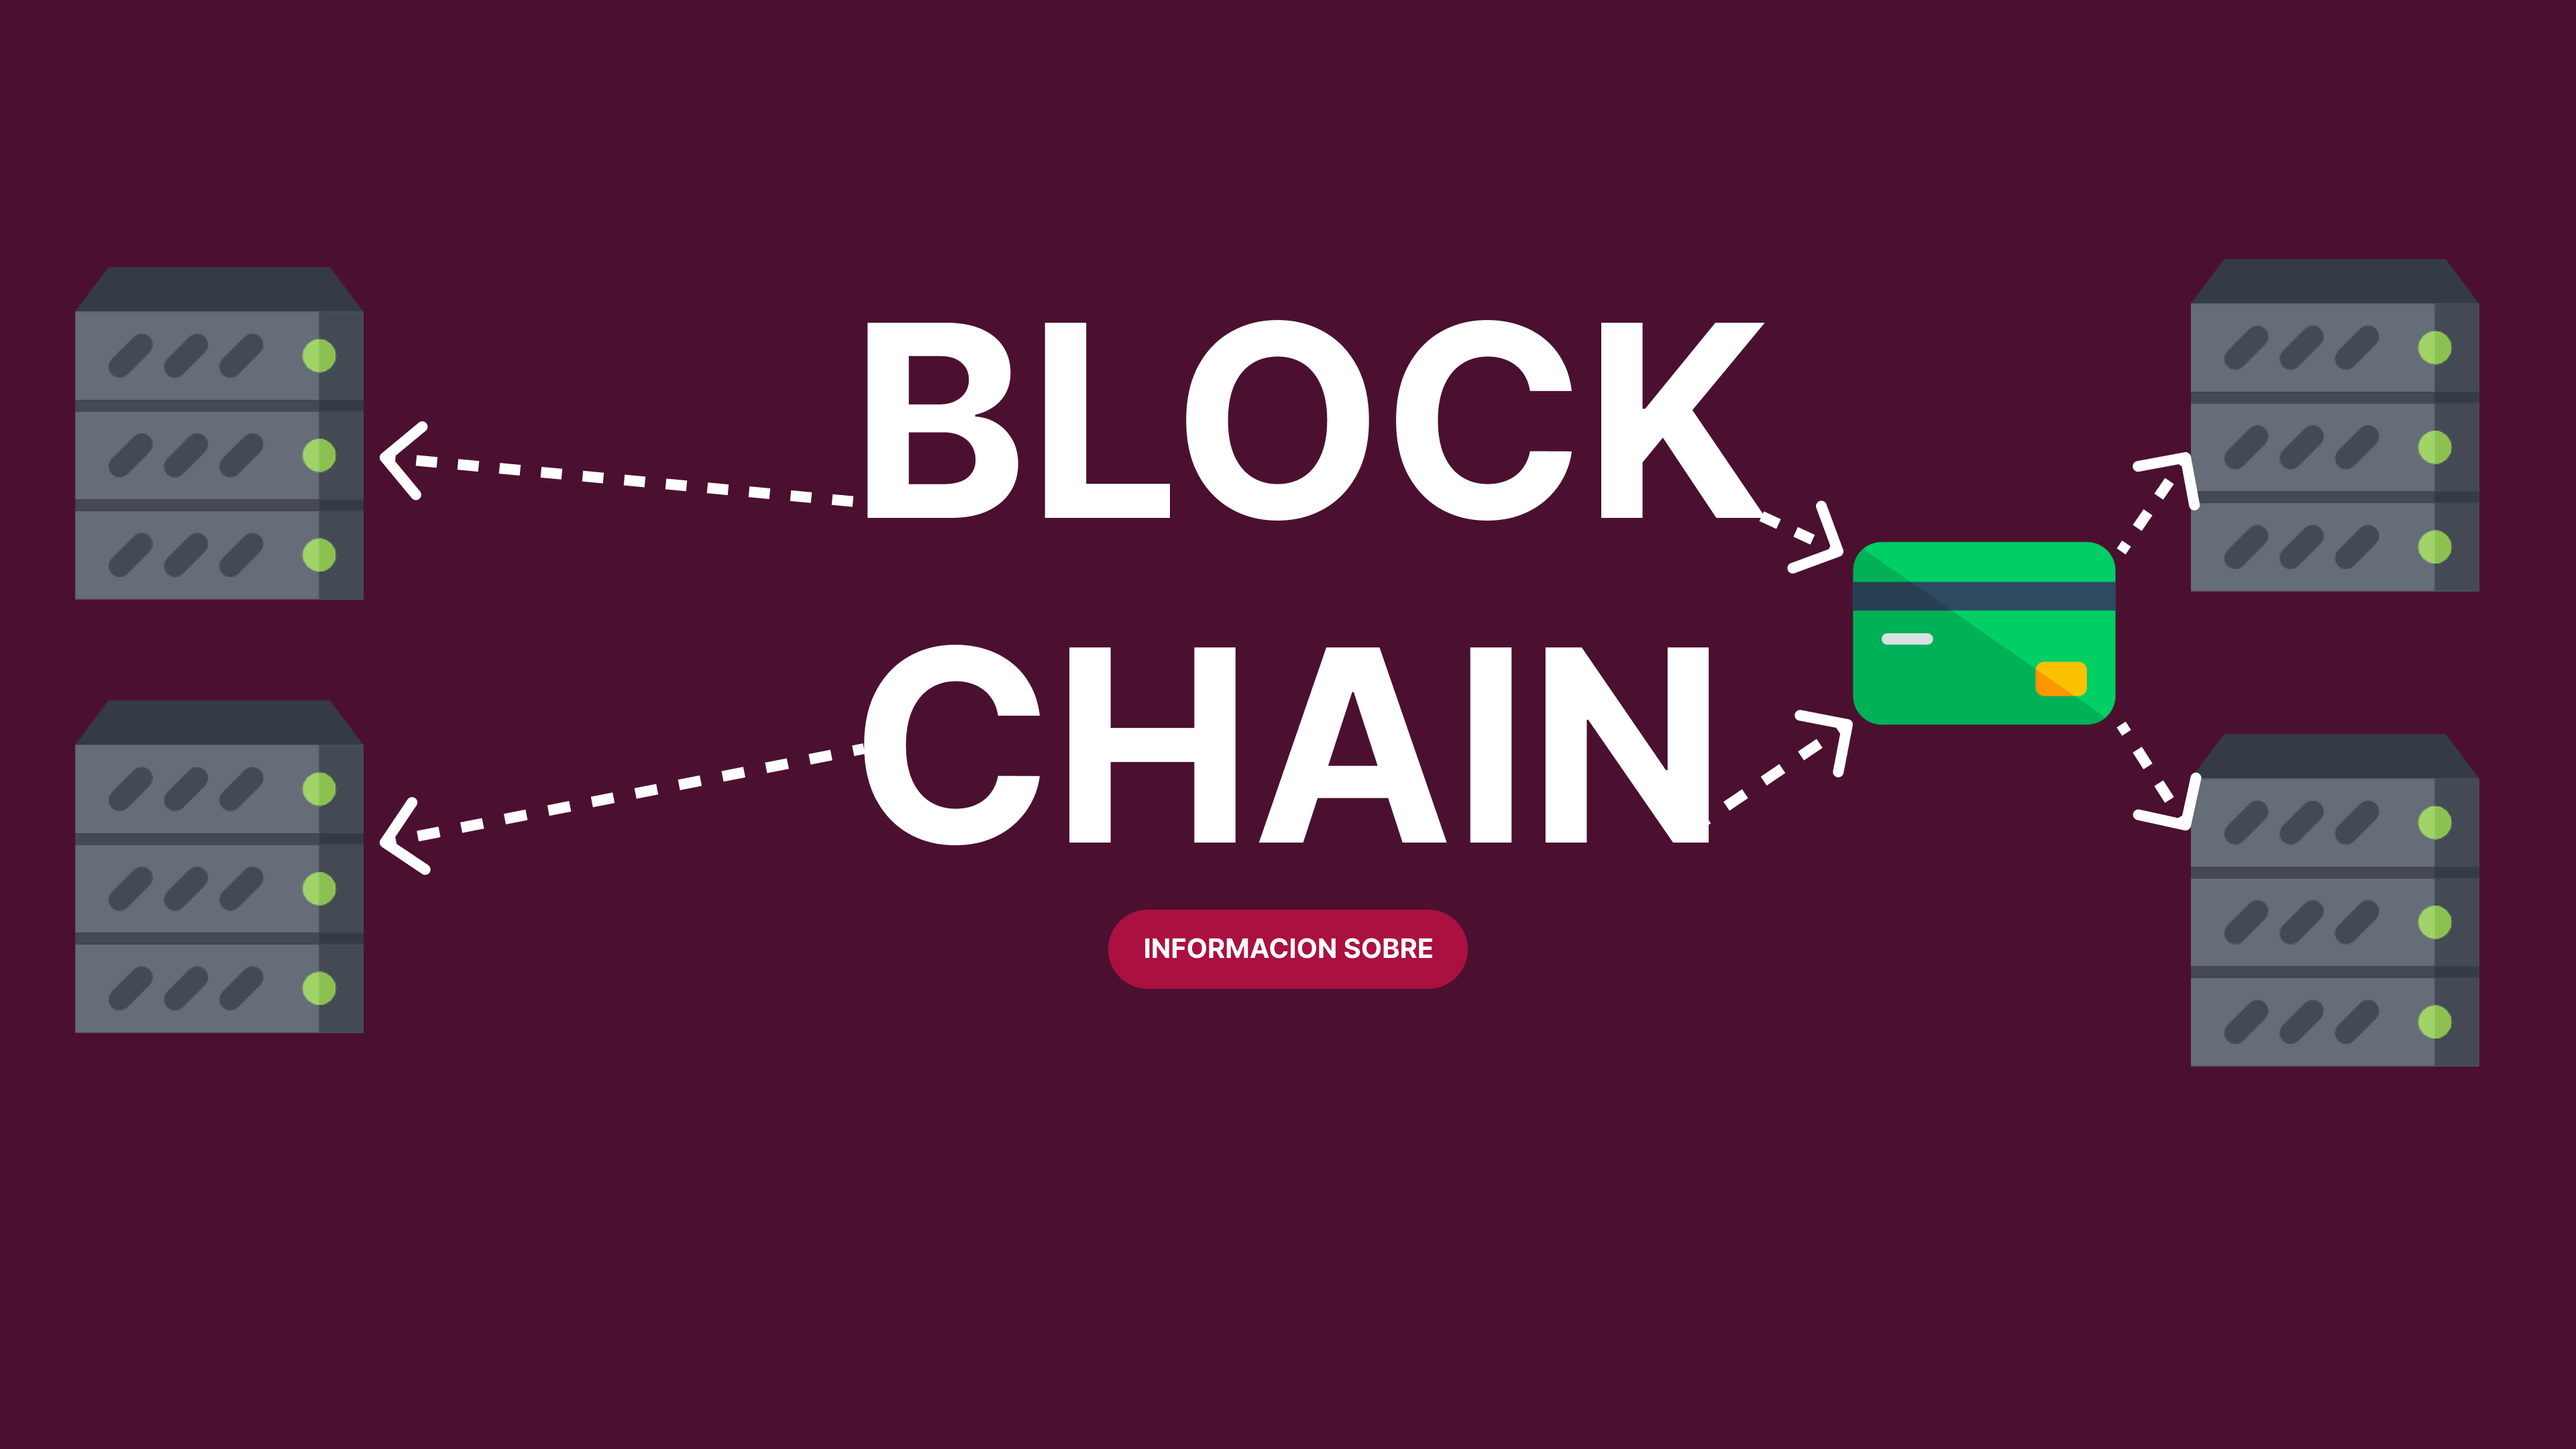
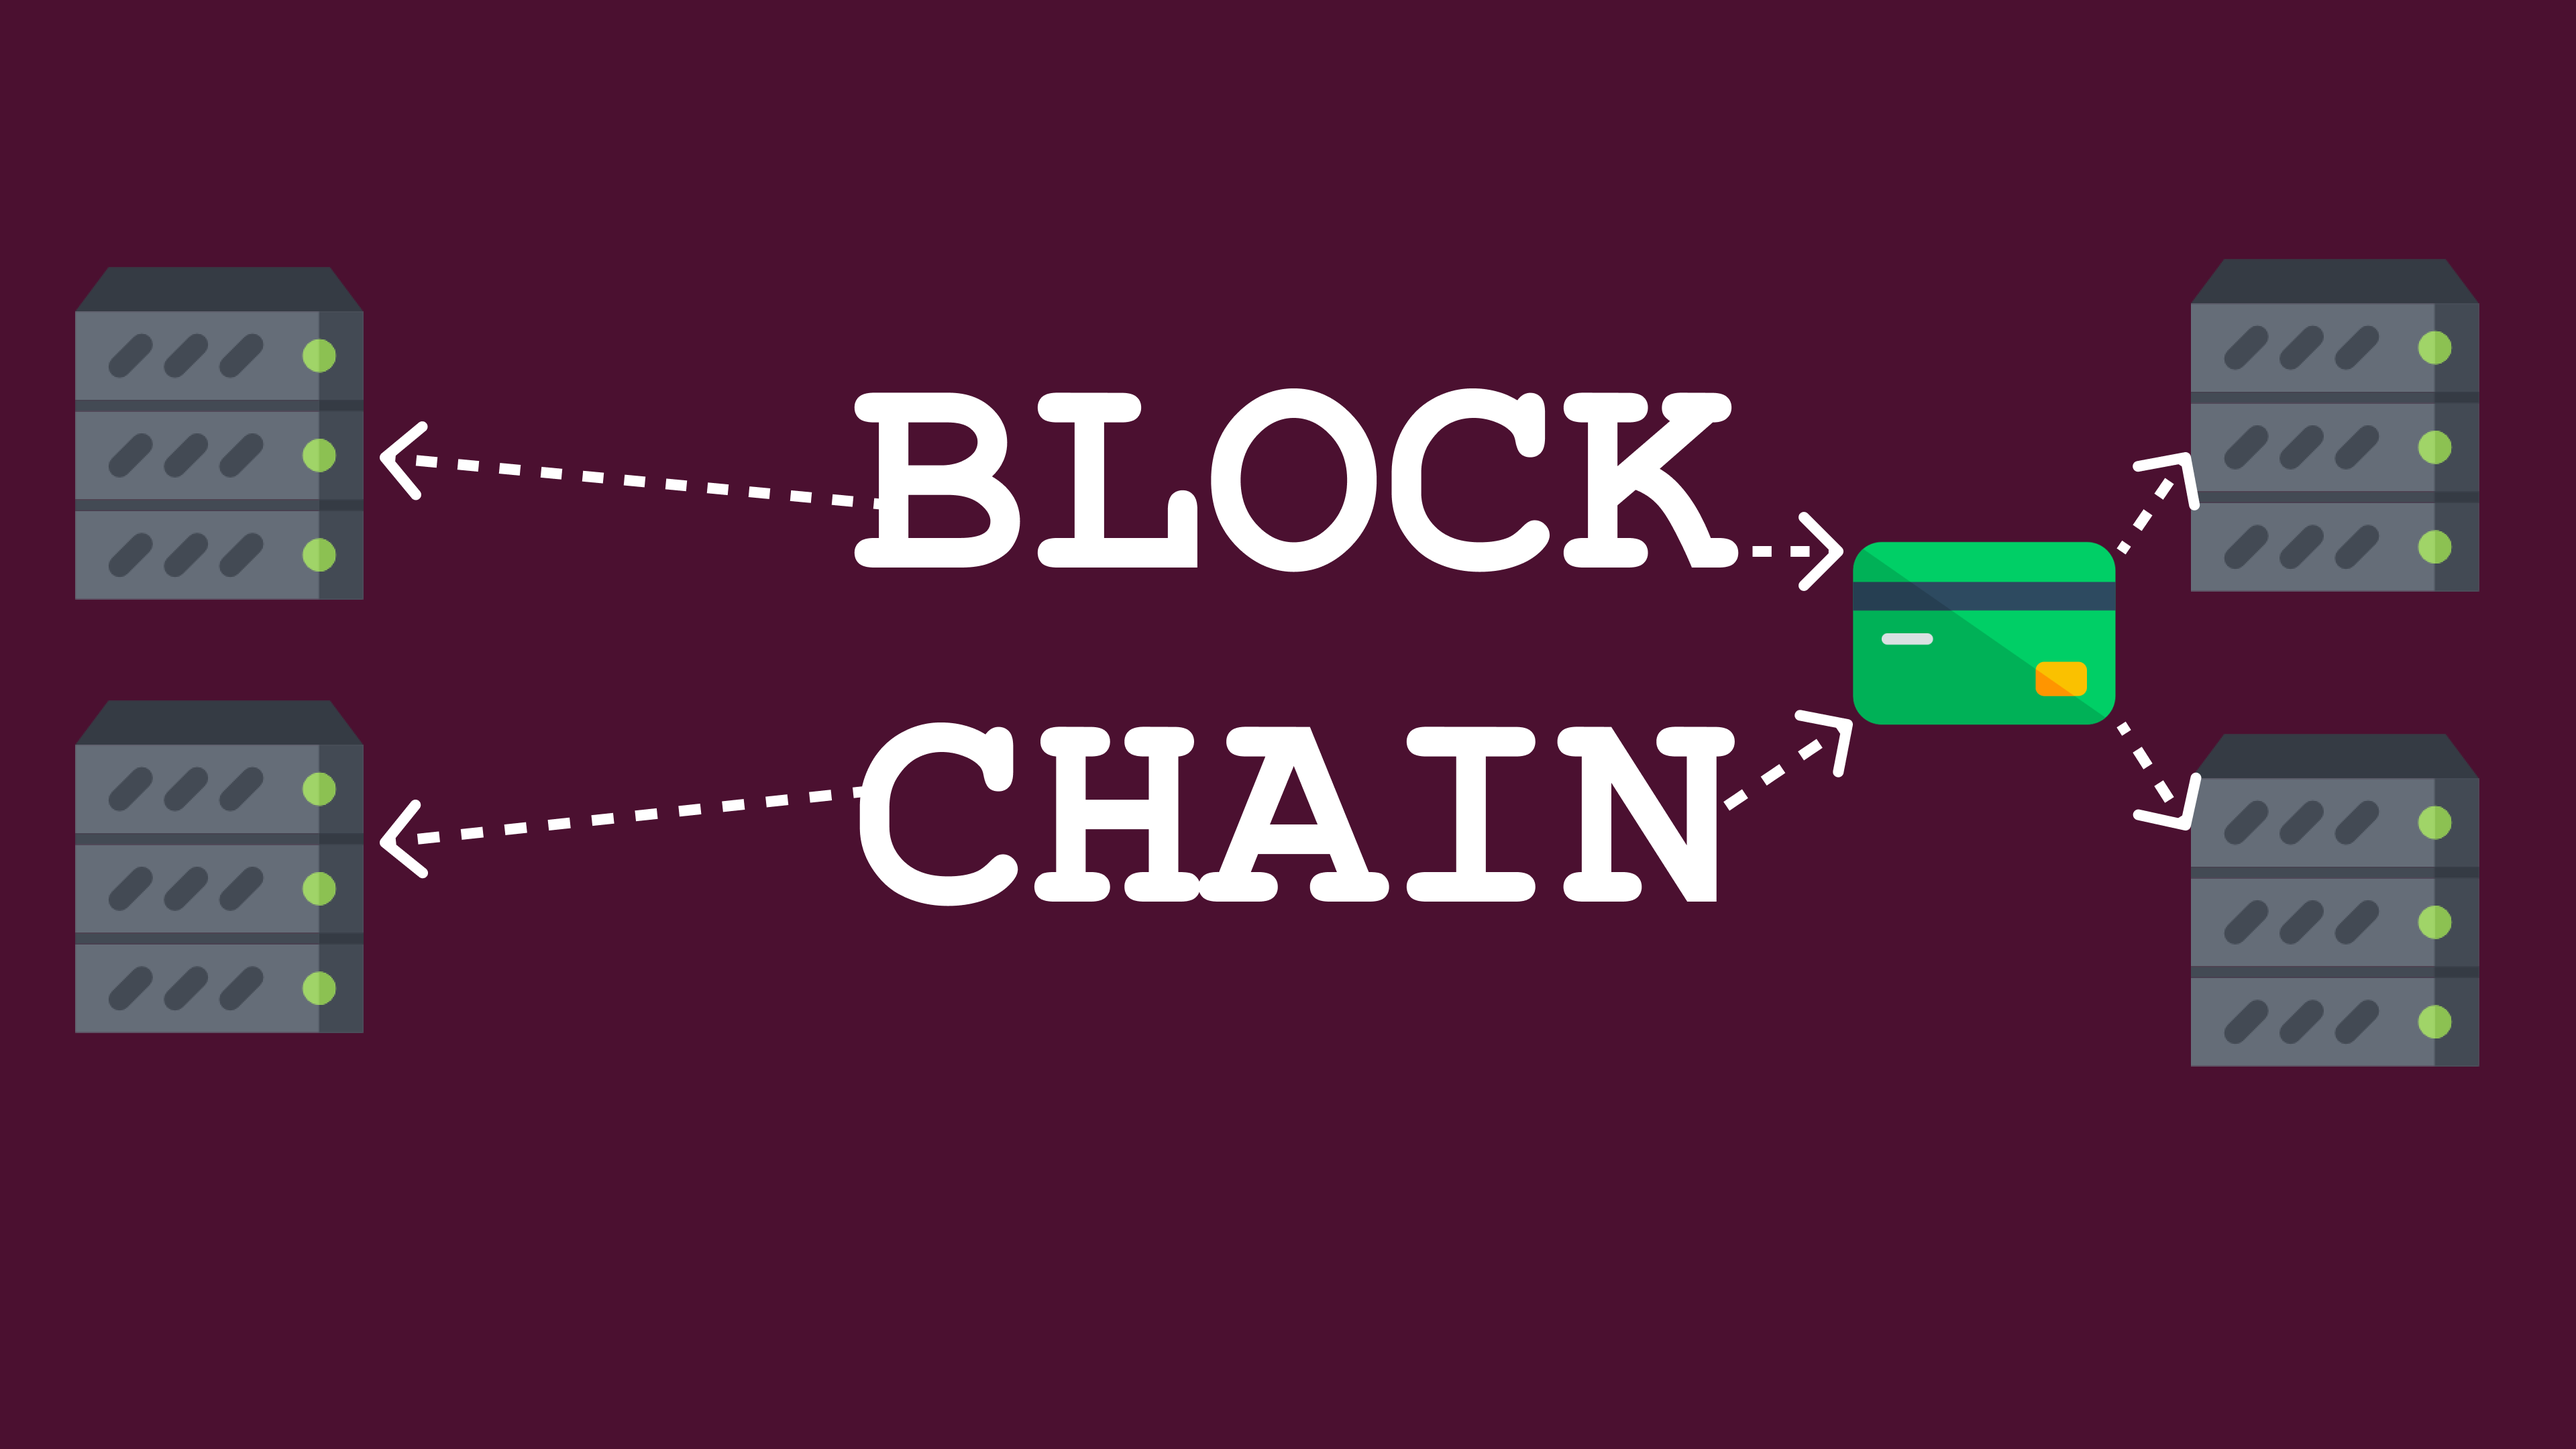
1.0.2

Changed region(s): [[0.1562, 0.4343, 0.6875, 0.6824], [0.3125, 0.2171, 0.7188, 0.4032]]

diff --git a/index.html b/index.html
@@ -9,7 +9,10 @@
 <body>
     <div class="container">
         <div class="left">
-            <h1>BLOCK CHAIN</h1>
+            <h1 class="binary-text">
+              <span class="block">01001</span><br><span class="chain">100101</span>
+            </h1>
+            
             <p>by Agustín Benítez López<br>Marcos García Jiménez<br>Daniel Gómez Ortiz</p>
               <button id="saberMas">Saber más sobre BLOCK CHAIN</button>
           
@@ -42,25 +45,59 @@
     </div>
 
     <script >
-      document.addEventListener("DOMContentLoaded", () => {
-            const button = document.getElementById("saberMas");
 
-            button.addEventListener("click", () => {
-              const h1 = document.querySelector(".left h1");
-              const p = document.querySelector(".left p");
-              const svg = document.querySelector(".right svg");
+document.addEventListener("DOMContentLoaded", function() {
+  const blockElement = document.querySelector('.block');
+  const chainElement = document.querySelector('.chain');
 
-              // Añadir clases de animación
-              h1.classList.add("animate-center");  // Animación para mover el h1 al centro
-              p.classList.add("fade-out");         // Hacer desaparecer el p
-              svg.classList.add("fade-out");       // Hacer desaparecer el svg
+  // Array de las letras de "BLOCKCHAIN"
+  const blockText = "BLOCK";
+  const chainText = "CHAIN";
+  
+  // Función para cambiar el texto de cada letra con un pequeño intervalo
+  function changeText(element, text, delay) {
+    let index = 0;
+    const interval = setInterval(() => {
+      element.textContent = text.slice(0, index + 1); // Mostrar letra por letra
+      index++;
+      if (index === text.length) {
+        clearInterval(interval); // Detener el intervalo cuando ya se haya mostrado todo el texto
+      }
+    }, delay); // Cambiar cada 200 ms (ajustable)
+  }
 
-              // Redirigir después de 1 segundo
-              setTimeout(() => {
-                window.location.href = "menu.html"; // Cambia esto por tu destino
-              }, 1000);
-            });
-          });
+  // Cambiar el texto de 'BLOCK' y 'CHAIN' letra por letra
+  setTimeout(() => {
+    changeText(blockElement, blockText, 200); // Cambia "BLOCK" cada 200 ms
+  }, 1000); // Esperar 1 segundo antes de empezar a cambiar "BLOCK"
+
+  setTimeout(() => {
+    changeText(chainElement, chainText, 200); // Cambia "CHAIN" cada 200 ms
+  }, 2000); // Esperar 2 segundos antes de empezar a cambiar "CHAIN"
+
+  const button = document.getElementById("saberMas");
+
+  button.addEventListener("click", () => {
+    // Esperamos que la animación del texto termine antes de realizar las siguientes animaciones
+    const h1 = document.querySelector(".left h1");
+    const p = document.querySelector(".left p");
+    const svg = document.querySelector(".right svg");
+
+    // Esperar que el texto "BLOCKCHAIN" haya terminado de escribirse antes de animar el resto
+    setTimeout(() => {
+      // Añadir clases de animación
+      h1.classList.add("animate-center");  // Animación para mover el h1 al centro
+      p.classList.add("fade-out");         // Hacer desaparecer el p
+      svg.classList.add("fade-out");       // Hacer desaparecer el svg
+
+      // Redirigir después de 1 segundo
+      setTimeout(() => {
+        window.location.href = "menu.html"; // Cambia esto por tu destino
+      }, 1000);
+    }, 2000); // Espera que la animación de "BLOCKCHAIN" haya terminado (ajustado para 4 segundos)
+  });
+});
+
     </script>
 </body>
 </html>

diff --git a/styles.css b/styles.css
@@ -24,22 +24,60 @@ body {
   position: relative; /* Necesario para manejar el posicionamiento del h1 */
 }
 
-/* Estilo para el h1 */
+/* Estilo general para h1 */
 .left h1 {
   font-size: 8rem;
   margin: 0;
-  position: relative; /* Inicialmente está en su posición original */
-  transition: transform 1s ease-in-out; /* Animación para moverlo */
-  z-index: 10; /* Asegura que el h1 esté por encima de otros elementos */
+  position: relative;
+  color: #ffffff;
+  font-family: 'Courier New', monospace; /* Fuente de tipo monoespaciada */
+  white-space: nowrap; /* Evita el salto de línea */
+  overflow: hidden; /* Oculta el texto que no se ha mostrado */
+  display: inline-block; /* Hace que el h1 sea más pequeño según su contenido */
+  width: fit-content; /* Hace que el ancho sea solo el necesario */
 }
 
-/* Animación cuando se agrega la clase .animate-center */
+/* Animación del cursor tipo código */
+.left h1 span {
+  opacity: 0;
+  animation: showBinary 1s steps(20) infinite, showText 4s forwards;
+}
+
+/* Animación de aparición tipo código binario */
+@keyframes showBinary {
+  0% {
+    content: '0';
+    opacity: 1;
+  }
+  50% {
+    content: '1';
+  }
+  100% {
+    content: '0';
+  }
+}
+
+/* Animación para mostrar el texto al final */
+@keyframes showText {
+  100% {
+    opacity: 1;
+    content: normal;
+  }
+}
+
+.fade-out {
+  opacity: 0;
+  transition: opacity 0.5s ease-in-out;
+}
+
 .animate-center {
   position: absolute;
   top: 50%;
   left: 50%;
-  transform: translateX(30%) translateY(-30%) scale(1.5); /* Mueve al centro horizontal y vertical */
+  transform: translateX(30%) translateY(1%) scale(1.5); /* Mueve al centro */
+  transition: transform 1s ease-in-out; /* Animación para moverlo */
 }
+
 
 /* Estilo para el texto del párrafo */
 .left p {
